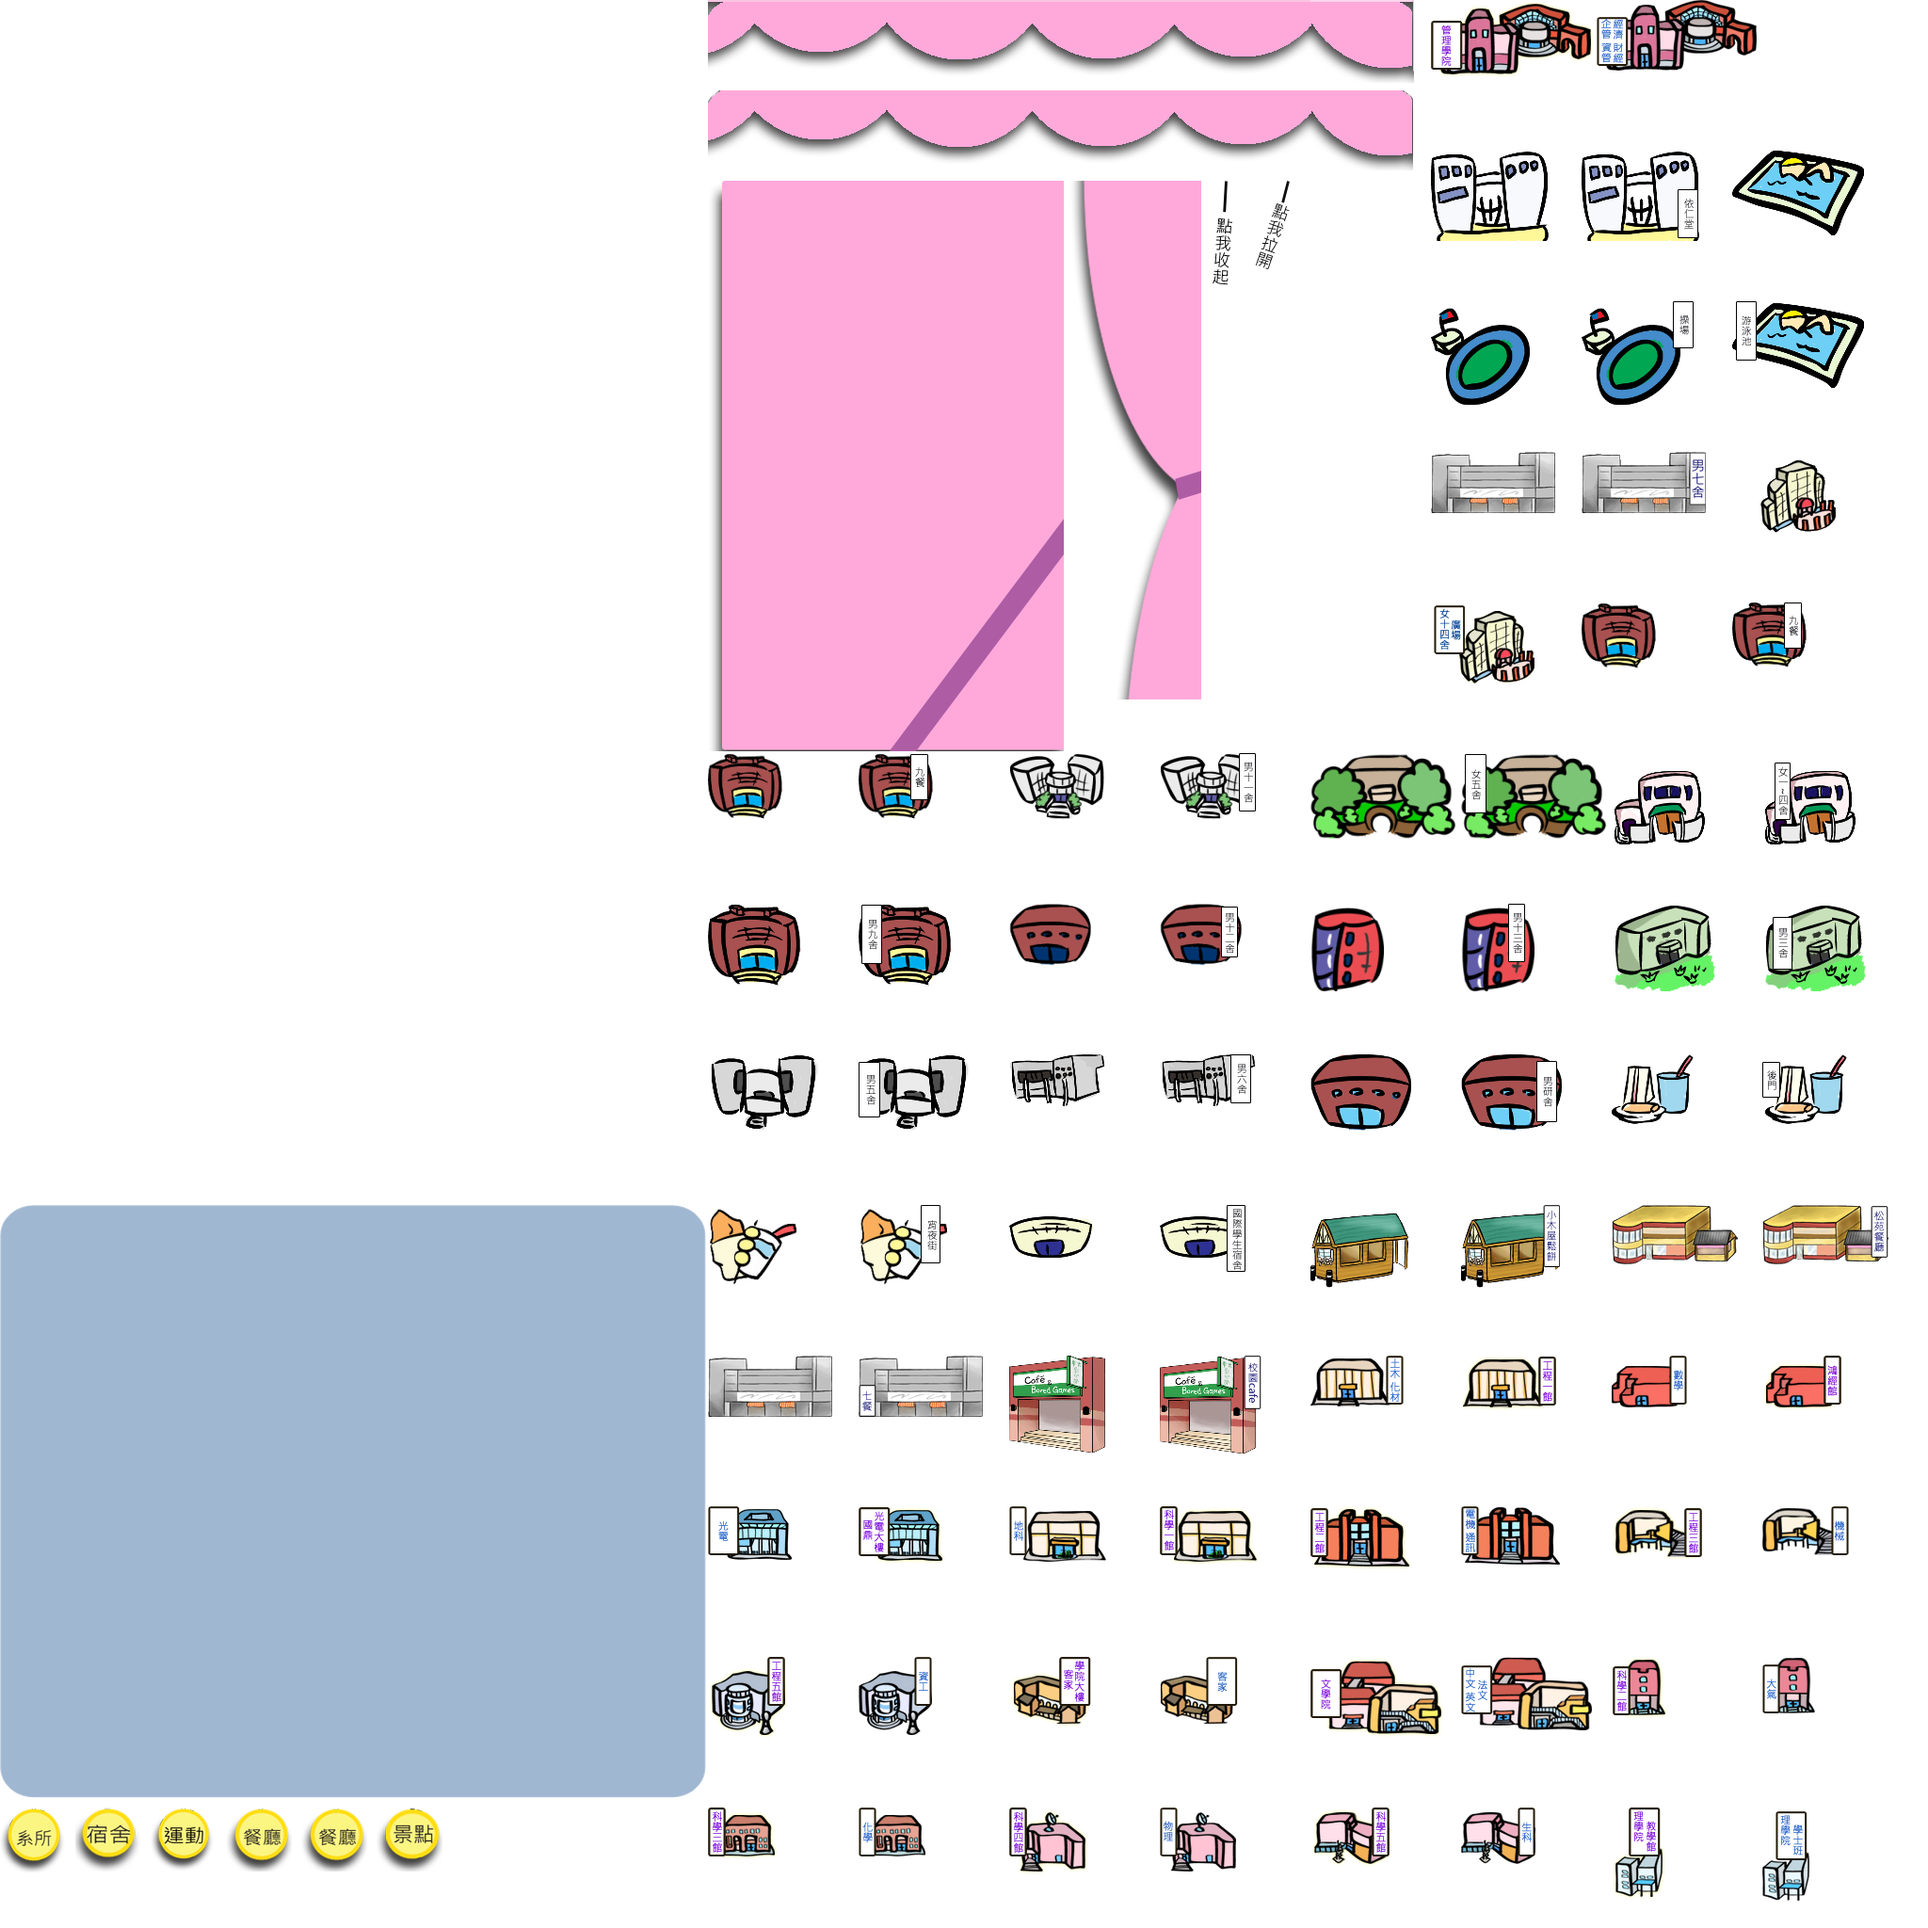
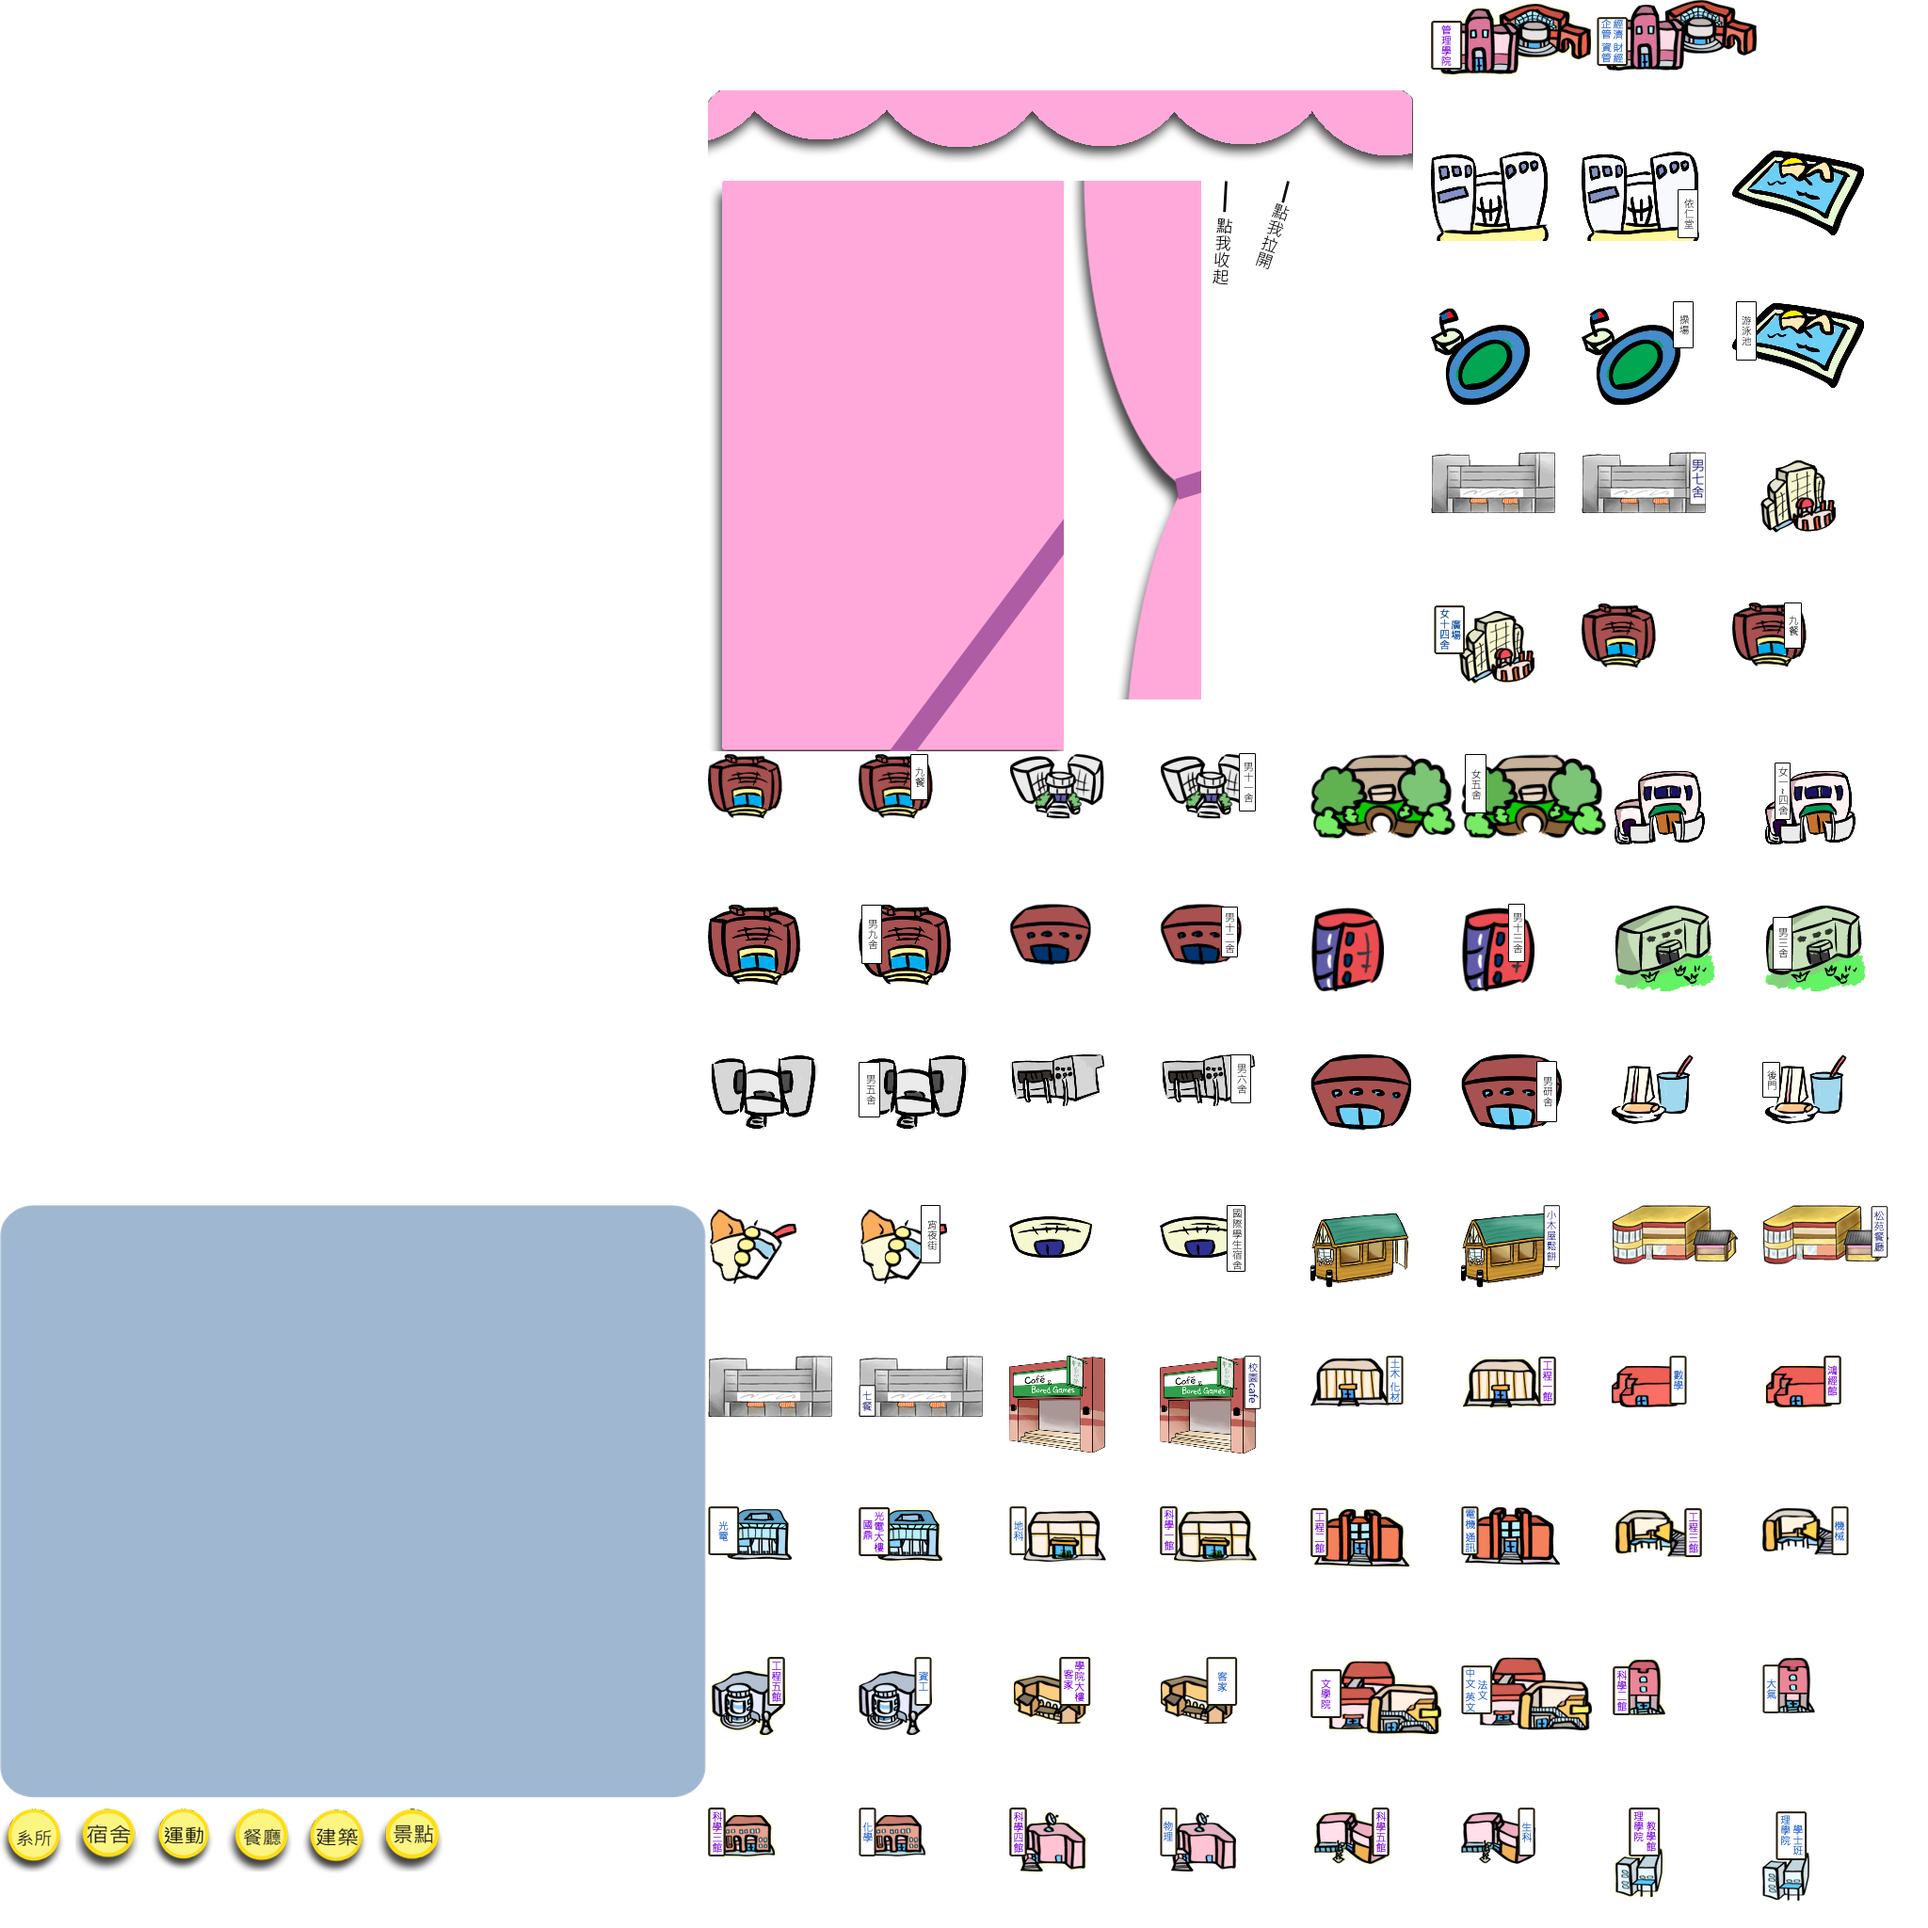
street bug fixed.

Changed region(s): [[0.3438, 0.0, 0.75, 0.0625], [0.1562, 0.9375, 0.1875, 0.9688]]

diff --git a/statics/styles/style.css b/statics/styles/style.css
@@ -7161,7 +7161,7 @@ li.enabled a
 #street-div #turtle-pond,
 #street-div #turtle-pond:hover,
 #street-div #yun-step,
-#street-div #yun-step:hover
+#street-div #yun-step:hover,
 #street-div .arrow.up,
 #street-div .arrow.up:hover,
 #street-div .arrow.left,
